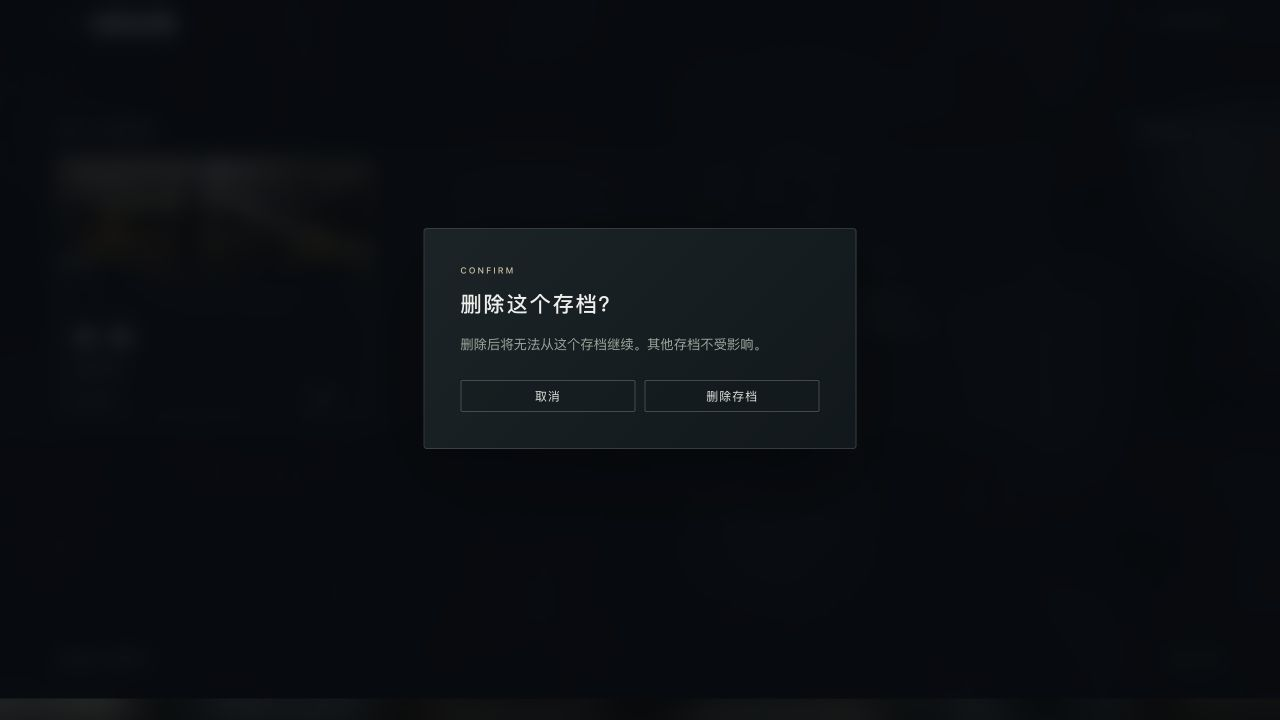
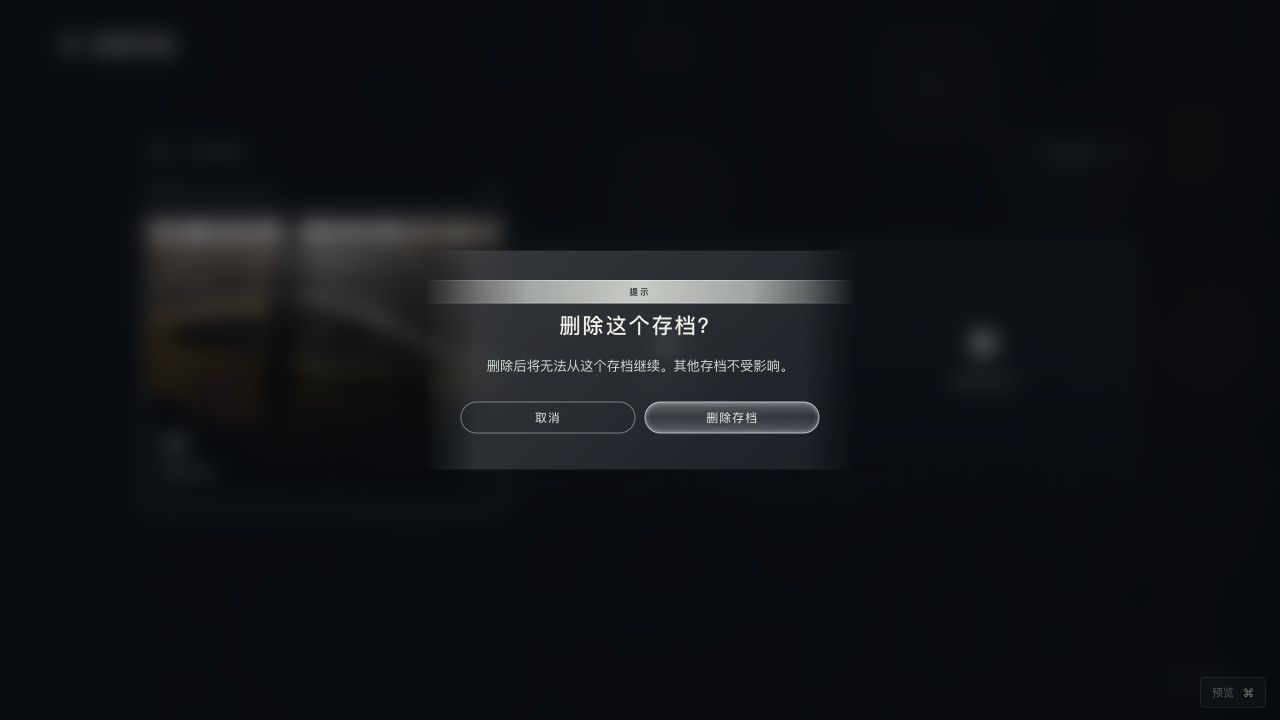
Align confirmation dialogs and unify toast styling

diff --git a/compare.html b/compare.html
@@ -1,4 +1,4 @@
-<!doctype html><html lang="zh-CN"><head><meta charset="utf-8"><meta name="viewport" content="width=device-width,initial-scale=1"><title>Yoroll 游戏 UI · 改版对比与比例方案</title><link rel="icon" href="wall/assets/yoroll-icon.svg"><link rel="stylesheet" href="compare.css?v=menu-light-playback-speed-20261114"></head>
+<!doctype html><html lang="zh-CN"><head><meta charset="utf-8"><meta name="viewport" content="width=device-width,initial-scale=1"><title>Yoroll 游戏 UI · 改版对比与比例方案</title><link rel="icon" href="wall/assets/yoroll-icon.svg"><link rel="stylesheet" href="compare.css?v=dialogs-toast-reference-20261114"></head>
 <body><header class="report-header"><a class="brand" href="index.html"><img src="assets/yoroll-logo.png" alt="yoroll"></a><div><span>UI / MOTION STUDY</span><h1>更克制的比例，更连贯的节奏。</h1></div><a id="open-prototype" class="primary-link" href="index.html?page=home" target="_blank">打开交互原型 ↗</a></header>
 <div class="scope"><i></i><span>本地交互方案</span><span>17 个页面 / 状态</span><span>全视口背景</span><span>未修改线上 Unity 游戏</span></div>
 <main class="report-layout"><aside class="page-sidebar"><div class="sidebar-title">逐页对比</div><nav id="page-list"></nav><a href="#proportions">比例调整方案 ↓</a><a href="#handoff">动效与交付说明 ↓</a></aside><article><section class="comparison-section"><div class="page-heading"><div><span id="page-kind" class="eyebrow"></span><h2 id="page-name"></h2></div><div class="page-switch"><button id="prev" aria-label="上一页">←</button><span id="page-count"></span><button id="next" aria-label="下一页">→</button></div></div>
@@ -6,4 +6,4 @@
 <div id="comparison" class="comparison fit-stage" data-mode="wipe"><div class="still-stage"><div class="before-layer"><img id="before-image" alt="修改前截图"><div id="no-before" class="no-before" hidden><span>—</span><h3>没有对应原版截图</h3><p id="before-note"></p></div><span class="picture-label before-label">原版</span></div><div class="after-layer" id="after-layer"><img id="after-image" alt="修改后截图"><span class="picture-label after-label">新版</span></div><div id="wipe-handle" class="wipe-handle"><span>↔</span></div><div class="safe-area" aria-hidden="true"><span>4.5% 水平安全区</span></div></div><div class="motion-stage" hidden><iframe id="motion-frame" title="页面动效预览"></iframe><div class="safe-area" aria-hidden="true"><span>4.5% 水平安全区</span></div></div></div>
 <div id="slider-row" class="slider-row"><span>新版更多</span><input id="wipe-slider" type="range" min="0" max="100" value="50" aria-label="新旧画面分割位置"><span>原版更多</span></div><p id="image-note" class="image-note"></p><div class="change-summary"><div><h3>布局与层级</h3><p id="change"></p></div><div><h3>比例</h3><p id="ratio"></p></div><div><h3>动效与操作</h3><p id="motion"></p><p id="interaction"></p></div></div></section>
 <section id="proportions" class="spec-section"><div class="section-heading"><span class="eyebrow">PROPORTION SYSTEM</span><h2>分别调整层级，建立统一的尺寸体系。</h2><p>以下均以 1920×1080 为设计基准。背景随视口铺满，UI 按当前基准等比缩放；水平安全区为画面宽度的 4.5%。原版数值来自截图估测。</p></div><div class="table-scroll"><table><thead><tr><th>项目</th><th>原版 · 约</th><th>新版</th><th>变化</th><th>调整目的</th></tr></thead><tbody id="proportion-table"></tbody></table></div><div class="principles"><div><span>01</span><h3>让场景成为主体</h3><p>减少全屏灰白覆盖和重高光。菜单、设置、弹窗用暗色虚化与局部明暗建立前后层次。</p></div><div><span>02</span><h3>控制视觉重量</h3><p>正文、辅助数值、主操作分别定标。保留大结果标题，收紧表单标签与导航控件。</p></div><div><span>03</span><h3>统一反馈语言</h3><p>细描边、短位移、柔和减速。悬停、按下、选中、取消与退出都给出明确回应。</p></div></div></section>
-<section id="handoff" class="spec-section"><div class="section-heading"><span class="eyebrow">MOTION SYSTEM</span><h2>一套进出场节奏，覆盖每个页面。</h2><p>页面退出 150ms，新页标题先入场，内容以 42–85ms 错峰，主体在约 0.8–1.1s 内落位。背景与封面 Logo 使用更长的缓慢收尾。</p></div><div class="motion-grid"><div><h3>常规入场</h3><strong>560–760<span> ms</span></strong><p>缓动 cubic-bezier(.16, 1, .3, 1)<br>上下位移约 8–24px，以设计基准计</p></div><div><h3>背景推近</h3><strong>3.6<span> s</span></strong><p>起止速度与加速度均为零<br>封面 100% → 103.5%，结束后停留</p></div><div><h3>确认弹窗</h3><strong>420<span> ms</span></strong><p>遮罩先淡入，弹窗轻浮落位<br>退出 150ms，取消后恢复焦点</p></div></div><div class="check-row"><span>✓ 页面切换</span><span>✓ 悬停 / 按下</span><span>✓ 键盘操作</span><span>✓ 弹窗焦点</span><span>✓ 减少动态效果适配</span><span>✓ 所有页面可重播</span><span>✓ Hover / 点击 / 切页音效</span></div><div class="file-links"><a href="design-tokens.json" download>下载尺寸与颜色参数</a><a href="motion-spec.json" download>下载逐页动效参数</a><a href="sound-spec.json" download>下载界面音效参数</a><a href="implementation-notes.txt" download>下载落地说明</a><a href="https://preview.game.yoroll.ai/?config=Race&test=1&lang=zh" target="_blank">查看原始预览 ↗</a></div><details open><summary>范围、素材与验证说明</summary><ul id="scope-notes"></ul><p>已检查主菜单、章节与剧情树导航；设置数值与语言下拉；新建存档和确认 / 取消；限时选择暂停计时；选择 → QTE → 结果链路；完成页可进入下一章或返回章节选择，末章进入游戏结束；QTE 超时进入失败并可重试。所有页面 / 状态均已保存本地截图。</p></details></section><footer class="report-footer">YOROLL · UI & MOTION EXPLORATION <span>2026.11.11 · 本地方案</span></footer></article></main><script src="report-data.js?v=menu-light-playback-speed-20261114"></script><script src="compare.js?v=menu-light-playback-speed-20261114"></script></body></html>
+<section id="handoff" class="spec-section"><div class="section-heading"><span class="eyebrow">MOTION SYSTEM</span><h2>一套进出场节奏，覆盖每个页面。</h2><p>页面退出 150ms，新页标题先入场，内容以 42–85ms 错峰，主体在约 0.8–1.1s 内落位。背景与封面 Logo 使用更长的缓慢收尾。</p></div><div class="motion-grid"><div><h3>常规入场</h3><strong>560–760<span> ms</span></strong><p>缓动 cubic-bezier(.16, 1, .3, 1)<br>上下位移约 8–24px，以设计基准计</p></div><div><h3>背景推近</h3><strong>3.6<span> s</span></strong><p>起止速度与加速度均为零<br>封面 100% → 103.5%，结束后停留</p></div><div><h3>确认弹窗</h3><strong>420<span> ms</span></strong><p>遮罩先淡入，弹窗轻浮落位<br>退出 150ms，取消后恢复焦点</p></div></div><div class="check-row"><span>✓ 页面切换</span><span>✓ 悬停 / 按下</span><span>✓ 键盘操作</span><span>✓ 弹窗焦点</span><span>✓ 减少动态效果适配</span><span>✓ 所有页面可重播</span><span>✓ Hover / 点击 / 切页音效</span></div><div class="file-links"><a href="design-tokens.json" download>下载尺寸与颜色参数</a><a href="motion-spec.json" download>下载逐页动效参数</a><a href="sound-spec.json" download>下载界面音效参数</a><a href="implementation-notes.txt" download>下载落地说明</a><a href="https://preview.game.yoroll.ai/?config=Race&test=1&lang=zh" target="_blank">查看原始预览 ↗</a></div><details open><summary>范围、素材与验证说明</summary><ul id="scope-notes"></ul><p>已检查主菜单、章节与剧情树导航；设置数值与语言下拉；新建存档和确认 / 取消；限时选择暂停计时；选择 → QTE → 结果链路；完成页可进入下一章或返回章节选择，末章进入游戏结束；QTE 超时进入失败并可重试。所有页面 / 状态均已保存本地截图。</p></details></section><footer class="report-footer">YOROLL · UI & MOTION EXPLORATION <span>2026.11.11 · 本地方案</span></footer></article></main><script src="report-data.js?v=dialogs-toast-reference-20261114"></script><script src="compare.js?v=dialogs-toast-reference-20261114"></script></body></html>

diff --git a/report-data.js b/report-data.js
@@ -115,10 +115,11 @@ window.YOROLL_REPORT = {
       "name": "退出登录",
       "before": "08-logout.jpg",
       "kind": "原版实拍",
-      "change": "将横贯全屏的提示条改为中央紧凑弹窗，减少灰白覆盖，明确标题、说明、取消与确认的层级。",
+      "change": "保留当前紧凑弹窗的 650px 基准宽度、文字与按钮尺寸，参考原版确认窗实拍恢复磨砂横向面板、银色「提示」带与胶囊按钮；内容居中，边缘自然渐隐。",
       "ratio": "弹窗宽 1920px → 650px；高约 504px → 332px；按钮高 90px → 48px。",
       "motion": "遮罩 220ms 淡入；弹窗从下方 16px、99% 缩放落位，420ms 柔和停住；退出 150ms。",
-      "interaction": "取消、Esc 与焦点回到原控件；确认只切换本地演示账号状态。"
+      "interaction": "取消、Esc 与焦点回到原控件；确认只切换本地演示账号状态。",
+      "appearanceRevision": "dialogs-toast-reference-20261114"
     },
     {
       "id": "gameplay",
@@ -218,10 +219,11 @@ window.YOROLL_REPORT = {
       "name": "退出确认",
       "before": "09-exit.jpg",
       "kind": "原版退出后黑屏",
-      "change": "原版点击退出后采集到黑屏。新版增加退出前确认，并平滑返回启动画面，让结束动作有明确落点。",
+      "change": "退出确认沿用同一套磨砂面板、银色提示带和胶囊按钮。保留当前紧凑比例、取消与确认行为、入场和退出节奏。",
       "ratio": "沿用 650px 宽的公共确认弹窗。",
       "motion": "背景压暗、弹窗轻浮，确认后淡出到启动画面，取消返回菜单。",
-      "interaction": "取消、Esc、退出均可演示。"
+      "interaction": "取消、Esc、退出均可演示。",
+      "appearanceRevision": "dialogs-toast-reference-20261114"
     }
   ],
   "proportions": [
@@ -332,6 +334,7 @@ window.YOROLL_REPORT = {
     "Game Over 粒子从上浮改为中心发散：粒子在中心附近从小而淡出现，向四周舒展、减速并渐隐，错开寿命持续补入。核心 34 个的出生半径为 6–26px、终点为 82–152px；外围 8 个最多到 220px，保留中间密度及远近层次。既有构图、粒子大小/透明度、分层入场和所有音效不变。",
     "Game Over 发散感加强：核心粒子终点由 82–152px 加至 100–180px，外围由 160–220px 加至 185–250px；寿命约缩短三成，前半段缓动更有向外推动感，末尾仍减速渐隐。42 个粒子持续从中心补入，远中近层次、透明度、尺寸、主体入场及声音保持。",
     "2026-11-14 默认海报背景使用真实封面：15 张原图均为 3:4，按完整构图压缩为 810×1080 WebP，无裁切、重绘或新增文字；源文件未修改。卡片尺寸、间距、下方柔性升入、落位后的漂浮、左侧深色高斯模糊和所有音效沿用已确认版本。素材来源与 SHA-256 记录见 wall/assets/covers/manifest.json。",
-    "首页 hover 调整为冷白文字边光与上下两条两端渐隐的细光线，去掉右侧箭头；字号、行高、行间距与原有轻微横移保持。播放页在底部控制栏补入倍速，使用现有胶囊和深色玻璃浮层，提供 1× / 1.25× / 1.5× / 2× 演示档位。变速保留当前时间与暂停状态，Esc 收起菜单，暂停页返回保留进度与速度；选项倒计时和所有音效不随倍速变化。"
+    "首页 hover 调整为冷白文字边光与上下两条两端渐隐的细光线，去掉右侧箭头；字号、行高、行间距与原有轻微横移保持。播放页在底部控制栏补入倍速，使用现有胶囊和深色玻璃浮层，提供 1× / 1.25× / 1.5× / 2× 演示档位。变速保留当前时间与暂停状态，Esc 收起菜单，暂停页返回保留进度与速度；选项倒计时和所有音效不随倍速变化。",
+    "确认弹窗和 toast 样式对齐（2026-11-14）：共用确认窗参考此前保存的原版退出登录实拍，使用磨砂横向材质、银色「提示」带、居中内容和胶囊轮廓；覆盖退出登录、退出故事、切换／新建／删除存档与演示登录。保留 650px 基准宽度、原有边距、字号、按钮高度，以及原 220/420/150ms 入退场、按钮呼吸与所有声音。toast 使用同一套中性灰磨砂与细亮边，保留原位置、文字、尺寸和 2600ms 渐入停留渐出。原版独立登录站和删除入口未进行现场对照，独立 toast 未稳定捕获，因此 toast 是材质统一而非声称逐像素复刻。"
   ]
 };

diff --git a/style.css b/style.css
@@ -467,3 +467,74 @@
 @media(prefers-reduced-motion:reduce){
   .home-menu button,.home-menu button::before,.home-menu button::after,.playback-speed-toggle,.playback-speed-toggle svg,.playback-speed-options button,.playback-speed-check{transition:none;}
 }
+
+/* Original preview materials, within the established compact dialog geometry. */
+.modal-scrim{background:#05090d7a;}
+.modal{
+  position:relative;
+  isolation:isolate;
+  background:transparent;
+  border-color:transparent;
+  border-radius:0;
+  box-shadow:none;
+}
+.modal::before{
+  content:"";
+  position:absolute;
+  z-index:-1;
+  inset:0;
+  background:linear-gradient(135deg,#696e7073,#303a426e);
+  backdrop-filter:blur(18px);
+  -webkit-backdrop-filter:blur(18px);
+  -webkit-mask-image:linear-gradient(90deg,transparent,#000 12%,#000 88%,transparent);
+  mask-image:linear-gradient(90deg,transparent,#000 12%,#000 88%,transparent);
+  pointer-events:none;
+}
+.modal .eyebrow{
+  position:relative;
+  isolation:isolate;
+  line-height:calc(var(--p)*15.75);
+  text-align:center;
+  color:#1c2529;
+}
+.modal .eyebrow::before{
+  content:"";
+  position:absolute;
+  z-index:-1;
+  inset:calc(var(--p)*-10) calc(var(--p)*-54);
+  background:linear-gradient(90deg,transparent,#f2f5ed80 30%,#f2f5eda6 50%,#f2f5ed80 70%,transparent) left top / 100% 1px no-repeat,
+             linear-gradient(90deg,transparent,#e5eae35c 30%,#e5eae38c 50%,#e5eae35c 70%,transparent) left bottom / 100% 1px no-repeat,
+             linear-gradient(90deg,transparent,#d9ded6ad 24%,#e9ede5d1 50%,#d9ded6ad 76%,transparent);
+  pointer-events:none;
+}
+.modal h2{text-align:center;color:#eff0e8;}
+.modal p{text-align:center;color:#d4dcd5;}
+.modal-actions .btn{border-radius:calc(var(--p)*24);}
+.modal-actions [data-action="modal-cancel"]{background:transparent;border-color:#e1e6df73;color:#e7ebe3;}
+.modal-actions [data-action="modal-cancel"]:hover{background:#e2e9df0d;border-color:#f1f2e9b3;}
+.modal-actions [data-action="modal-confirm"]:not(.btn-glass){
+  background:linear-gradient(180deg,#f4f9fc47,#cfdfe61a 48%,#e7f2f840);
+  color:#edf0e8;
+  border-color:#eff8fca1;
+  box-shadow:inset 0 calc(var(--p)*2) calc(var(--p)*7) #ffffff45,inset 0 calc(var(--p)*-2) calc(var(--p)*7) #ffffff2e;
+}
+.modal-actions [data-action="modal-confirm"]:not(.btn-glass):hover{border-color:#f4f6eac4;}
+/* Toast timing, text, icon size and anchor are unchanged. */
+.toast{
+  isolation:isolate;
+  border-color:#e1e8df26;
+  border-radius:calc(var(--p)*32);
+  background:linear-gradient(180deg,#626a6d94,#28343bc4);
+  color:#e4e9df;
+  box-shadow:inset 0 1px 0 #edf2e51a;
+}
+.toast::before{
+  content:"";
+  position:absolute;
+  inset:-1px;
+  border-radius:inherit;
+  background:linear-gradient(90deg,transparent 12%,#e8eee34d 50%,transparent 88%) left top / 100% 1px no-repeat,
+             linear-gradient(90deg,transparent 12%,#d3e1df26 50%,transparent 88%) left bottom / 100% 1px no-repeat;
+  pointer-events:none;
+}
+.toast svg{color:#e4ead9;}

diff --git a/compare.js b/compare.js
@@ -15,7 +15,7 @@ function updatePage(){
  $('#page-kind').textContent=page.kind;
  $('#page-count').textContent=`${String(index+1).padStart(2,'0')} / ${pages.length}`;
  $('#change').textContent=page.change;$('#ratio').textContent=page.ratio;$('#motion').textContent=page.motion;$('#interaction').textContent=page.interaction;
- $('#after-image').src=`comparison/after/${page.id}.jpg?v=menu-light-playback-speed-20261114`;
+ $('#after-image').src=`comparison/after/${page.id}.jpg?v=dialogs-toast-reference-20261114`;
  $('#after-image').alt=page.name+'修改后';
  $('#before-image').hidden=!page.before;
  $('#no-before').hidden=Boolean(page.before);
@@ -23,12 +23,12 @@ function updatePage(){
  else $('#before-image').removeAttribute('src');
  $('#before-note').textContent=page.beforeNote|| (page.kind==='沿用已定方案'?'沿用本聊天之前已确认的封面构图与素材。':'该状态未在这次线上预览中观察到。新版提供可操作的补充动效示例。');
  $('#image-note').textContent=mode==='motion'?'当前为可操作的实时动效。页面内可以继续导航，点击重播可回到所选页面。':page.before?(page.beforeSource==='user'?'原版来自用户提供的旧版 UI；新版为浏览器实际截图，重点对比尺寸、间距和动效。':'原版来自线上实际截图；新版为本地浏览器截图。底图部分不同，对比重点为 UI 占比、层级与位置。'):'左侧保留来源说明；右侧展示本轮方案。点击「播放动效」体验完整入场。';
- $('#open-prototype').href=`index.html?page=${page.id}&revision=menu-light-playback-speed-20261114`;
+ $('#open-prototype').href=`index.html?page=${page.id}&revision=dialogs-toast-reference-20261114`;
  document.querySelectorAll('[data-page]').forEach(button=>{if(button.dataset.page===page.id)button.setAttribute('aria-current','page');else button.removeAttribute('aria-current');});
  history.replaceState(null,'','#'+page.id);
  if(mode==='motion')loadMotion();
 }
-function loadMotion(){const page=pages[index];$('#motion-frame').src=`index.html?page=${page.id}&capture=1&revision=menu-light-playback-speed-20261114&replay=${++replay}`;}
+function loadMotion(){const page=pages[index];$('#motion-frame').src=`index.html?page=${page.id}&capture=1&revision=dialogs-toast-reference-20261114&replay=${++replay}`;}
 function setMode(value){
  mode=value;$('#comparison').dataset.mode=mode;
  document.querySelectorAll('button[data-mode]').forEach(button=>button.setAttribute('aria-pressed',String(button.dataset.mode===mode)));

diff --git a/app.js b/app.js
@@ -892,7 +892,7 @@ function openModal({title,message,confirm='确认',onConfirm,eyebrow='CONFIRM',d
  uiSound.play('open',{level:.8});
  modalPreviousFocus=document.activeElement;
  confirmAction=onConfirm;
- modalRoot.innerHTML=`<div class="modal-scrim"><section class="modal" role="dialog" aria-modal="true" aria-labelledby="modal-title" aria-describedby="modal-message"><div class="eyebrow">${eyebrow}</div><h2 id="modal-title">${title}</h2><p id="modal-message">${message}</p><div class="modal-actions">${button('取消','modal-cancel','btn-small')}${button(confirm,'modal-confirm',`btn-small ${danger?'':'btn-primary'}`)}</div></section></div>`;
+ modalRoot.innerHTML=`<div class="modal-scrim"><section class="modal" data-context="${eyebrow}" role="dialog" aria-modal="true" aria-labelledby="modal-title" aria-describedby="modal-message"><div class="eyebrow">提示</div><h2 id="modal-title">${title}</h2><p id="modal-message">${message}</p><div class="modal-actions">${button('取消','modal-cancel','btn-small')}${button(confirm,'modal-confirm',`btn-small ${danger?'':'btn-primary'}`)}</div></section></div>`;
  screen.inert=true;
  enter($('.modal-scrim'),{y:0,duration:220});
  enter($('.modal'),{y:unit(16),scale:.99,duration:420});

diff --git a/index.html b/index.html
@@ -6,7 +6,7 @@
   <meta name="theme-color" content="#0a0d0e">
   <title>Yoroll · 游戏 UI 动效改版</title>
   <link rel="icon" href="wall/assets/yoroll-icon.svg">
-  <link rel="stylesheet" href="style.css?v=menu-light-playback-speed-20261114">
+  <link rel="stylesheet" href="style.css?v=dialogs-toast-reference-20261114">
   <link rel="preload" as="fetch" href="assets/audio/home-opening.wav?v=opening-fade-20261111" crossorigin="anonymous">
 </head>
 <body>
@@ -30,9 +30,9 @@
     <div class="review-sound"><button data-action="restart-music">↻ 重播开场音</button><button data-action="toggle-preview-audio">暂停声音</button></div>
     <p id="music-status" class="sound-status">首次点击后播放开场音</p>
   </aside>
-  <script src="ui-sound.js?v=menu-light-playback-speed-20261114"></script>
+  <script src="ui-sound.js?v=dialogs-toast-reference-20261114"></script>
   <script src="home-music.js?v=completion-gold-particles-20261114"></script>
   <script src="story-tree.js?v=tree-locked-hover-20261113"></script>
-  <script src="app.js?v=menu-light-playback-speed-20261114"></script>
+  <script src="app.js?v=dialogs-toast-reference-20261114"></script>
 </body>
 </html>
